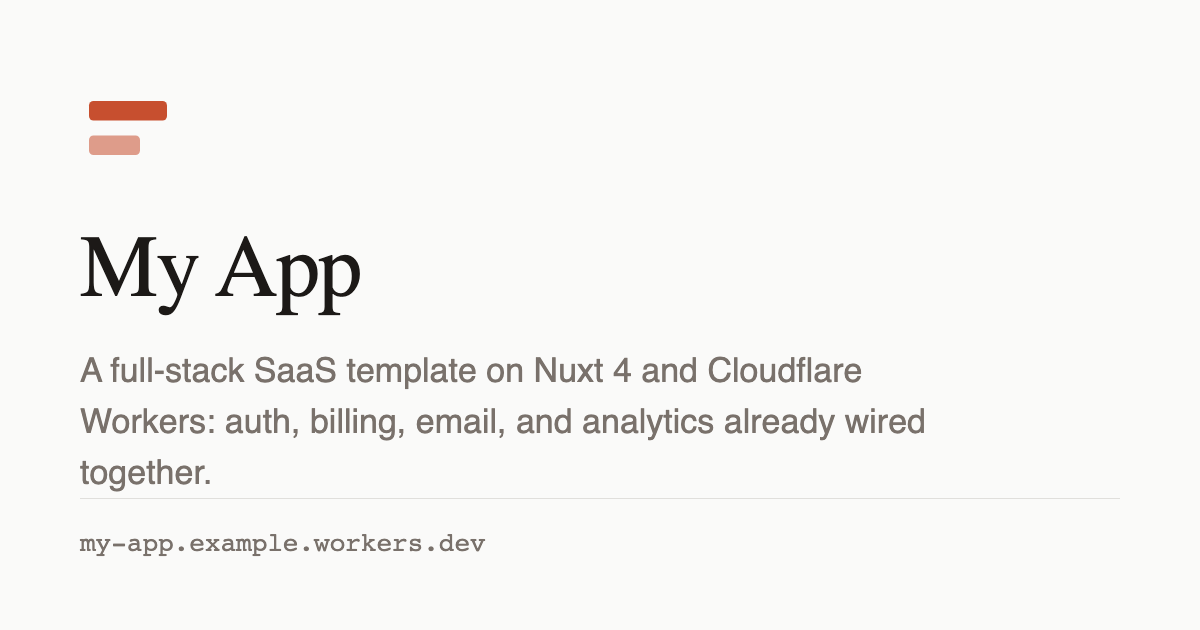
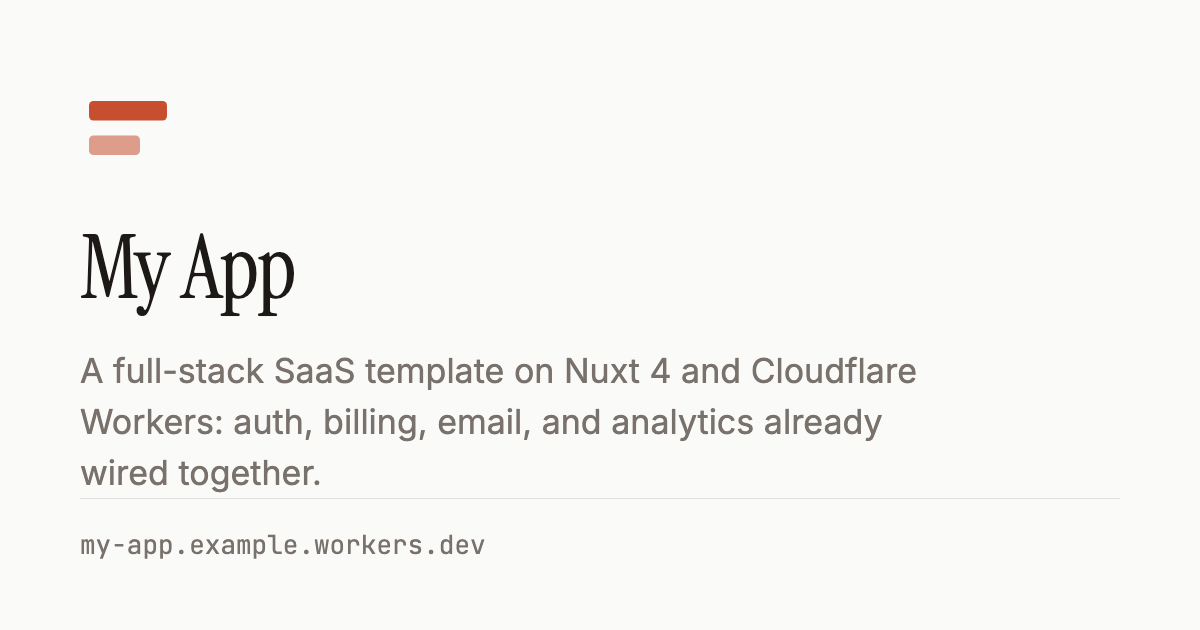
fix(brand): og.png waits for its webfonts (#268)
brand:generate shot og.png at domcontentloaded, before the Google Fonts
stylesheets arrived, so document.fonts.ready had nothing pending and
every og.png used the generic fallback faces. document.fonts.check()
answers true when no face matches, so the offline warning never fired.

Wait for the load event, ask for each face with document.fonts.load(),
and warn when any comes back empty. GENERATOR_VERSION 6 flags every
fork's og.png stale so its next sync redraws it.

diff --git a/scripts/generate-brand-assets.ts b/scripts/generate-brand-assets.ts
@@ -49,6 +49,8 @@ import { emailThemeCss } from './brand-email'
 import { BRAND_ROLES, markPlacement, markTransform, type BrandRole } from './brand-source'
 
 const OG = { width: 1200, height: 630 }
+/** How long og.png waits on the font provider before shooting with fallbacks. */
+const FONT_TIMEOUT_MS = 15_000
 /** Rendered at 2x the 32px it is shown at in an email, for retina screens. */
 const EMAIL_LOGO = 64
 const APPLE_TOUCH = 180
@@ -178,8 +180,8 @@ console.info(`  name      ${inputs.appName}${inputs.appHost ? `  (${inputs.appHo
 console.info(`  colors    ${BRAND_ROLES.map((role) => `${role} ${palette[role]}`).join('  ')}`)
 if (!fontsLoaded) {
   console.warn(
-    `  fonts     ${inputs.fonts.display} did not load — og.png fell back to a generic family.\n` +
-      '            Check the network, or that the family is on Google Fonts, then re-run.',
+    `  fonts     ${webfonts(inputs).join(', ')} did not all load — og.png fell back to a generic family.\n` +
+      '            Check the network, or that each family is on Google Fonts, then re-run.',
   )
 }
 
@@ -408,8 +410,16 @@ async function resolvePalette(page: Page, inputs: BrandInputs): Promise<Palette>
   return palette
 }
 
-/** Render HTML at exact pixel dimensions and write the PNG. Returns whether the
- *  requested webfonts actually arrived. */
+/** The faces og.png asks Google Fonts for. A generic family (an app whose
+ *  main.css names no display face) has nothing to download. */
+function webfonts(inputs: BrandInputs): string[] {
+  const generic = new Set(['serif', 'sans-serif', 'monospace'])
+  const { display, sans, mono } = inputs.fonts
+  return [...new Set([display, sans, mono])].filter((family) => !generic.has(family))
+}
+
+/** Render HTML at exact pixel dimensions and write the PNG. Returns whether
+ *  every webfont `fontCheck` names actually arrived. */
 async function shoot(
   page: Page,
   html: string,
@@ -420,20 +430,29 @@ async function shoot(
   transparent = false,
 ): Promise<boolean> {
   await page.setViewportSize({ width, height })
-  await page.setContent(html, { waitUntil: 'domcontentloaded' })
+  // `load`, not `domcontentloaded`: the Google Fonts <link>s hold the load
+  // event, and until they arrive there is no @font-face to wait for, so
+  // `document.fonts.ready` resolves at once and the shot takes the fallback.
+  // Never block on the provider: offline, shoot with the fallback.
+  await page
+    .setContent(html, { waitUntil: 'load', timeout: FONT_TIMEOUT_MS })
+    .catch(() => undefined)
 
-  // Never block on the font provider: an offline run should still produce a
-  // correct-looking image rather than hang for the default navigation timeout.
-  await page.evaluate(() =>
-    Promise.race([document.fonts.ready, new Promise((resolve) => setTimeout(resolve, 15_000))]),
+  const families = fontCheck ? webfonts(fontCheck) : []
+  // Ask for each face by name rather than trusting `document.fonts.ready`: a
+  // face is only fetched once something needs it. `load` resolves to the faces
+  // it found, so an empty list is a family that never arrived. (`fonts.check`
+  // cannot tell: it answers true when no face matches at all.)
+  const loaded = await page.evaluate(
+    ({ families, timeout }) =>
+      Promise.race([
+        Promise.all(families.map((family) => document.fonts.load(`88px "${family}"`))).then(
+          (found) => found.every((faces) => faces.length > 0),
+        ),
+        new Promise<boolean>((resolve) => setTimeout(() => resolve(false), timeout)),
+      ]),
+    { families, timeout: FONT_TIMEOUT_MS },
   )
-
-  const loaded = fontCheck
-    ? await page.evaluate(
-        (family: string) => document.fonts.check(`88px "${family}"`),
-        fontCheck.fonts.display,
-      )
-    : true
 
   await page.screenshot({ path: join(ROOT, target), type: 'png', omitBackground: transparent })
   return loaded

diff --git a/scripts/brand-inputs.ts b/scripts/brand-inputs.ts
@@ -57,8 +57,12 @@ export const GENERATED_ASSETS = [
  *
  * Bumped to '5' when brand-colors.generated.ts gained the `og-*` hex colors that
  * scripts/og-images.ts draws per-page share cards with.
+ *
+ * Bumped to '6' when og.png started waiting for its webfonts: before, it was
+ * shot before the Google Fonts stylesheet arrived, so every og.png drawn
+ * since the pipeline began used the generic fallback faces.
  */
-export const GENERATOR_VERSION = '5'
+export const GENERATOR_VERSION = '6'
 
 export interface BrandColor {
   /** The `--color-*` token named in DESIGN.md › Brand mark. */
